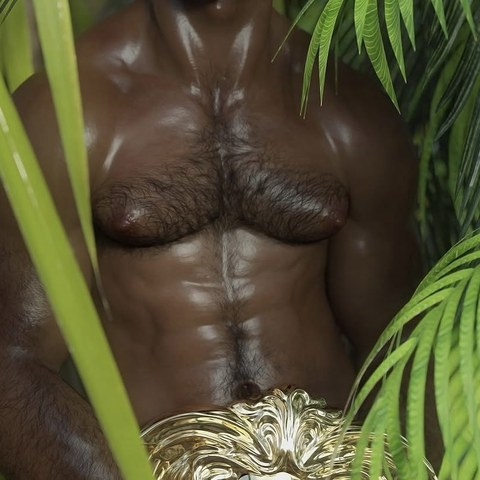
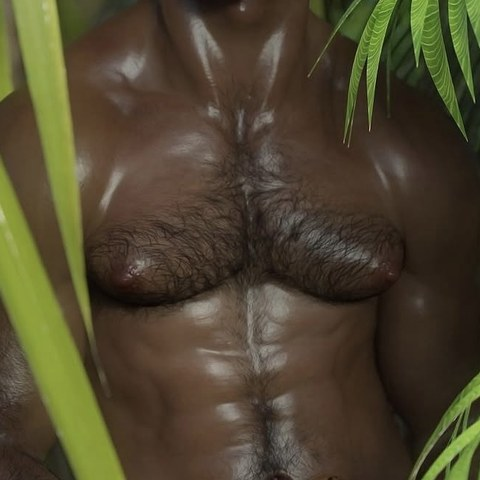
new creator

diff --git a/index.html b/index.html
@@ -200,7 +200,18 @@
   .cr-card .tx{flex:1;min-width:0;display:flex;flex-direction:column;gap:2px}
   .cr-card .h{font-size:16px;font-weight:800;color:var(--txt);overflow-wrap:anywhere;line-height:1.15}
   .cr-card .go{flex:none;height:34px;padding:0 13px;border-radius:17px;background:var(--acc);color:#000;font-weight:800;font-size:13px;display:flex;align-items:center;text-decoration:none;white-space:nowrap}
-  .cr-card .pend{font-size:8.5px;font-weight:800;letter-spacing:.8px;text-transform:uppercase;color:#ff9f0a}
+  .cr-card{flex-wrap:wrap}
+  .cr-card .av img.pic{opacity:1;z-index:1}
+  .cr-card .more{align-self:flex-start;margin-top:4px;padding:0;background:none;border:0;color:var(--mut);font:inherit;font-size:12px;font-weight:600;cursor:pointer}
+  .cr-card .more::after{content:' ▾';display:inline-block;transition:transform .2s}
+  .cr-card.open .more::after{transform:rotate(180deg)}
+  .cr-card .grid{display:none;flex-basis:100%;grid-template-columns:repeat(3,1fr);gap:6px}
+  .cr-card.open .grid{display:grid}
+  .cr-card .grid a{display:block;aspect-ratio:1;border-radius:8px;overflow:hidden;background:var(--card2)}
+  .cr-card .grid img{width:100%;height:100%;object-fit:cover;display:block}
+  .cr-card .pend{margin-top:4px;font-size:8.5px;font-weight:800;letter-spacing:.8px;text-transform:uppercase;color:#ff9f0a;animation:pendPulse 1.8s ease-in-out infinite}
+  @keyframes pendPulse{50%{opacity:.35}}
+  @media (prefers-reduced-motion:reduce){.cr-card .pend{animation:none}}
   #about .small{font-size:12px;color:var(--mut)}
   /* ---- password gate ---- */
   #gate{display:flex;flex-direction:column;align-items:center;gap:10px;width:100%;max-width:290px}
@@ -435,6 +446,7 @@ const CREATORS={
   'sasha.from.paris':{approved:false, credit:'oil paintings'},
   'agostovs':        {approved:false, credit:'3D character design'},
   'bruterdam':       {approved:false, credit:'3D renders'},
+  'lorenzosuited':   {approved:false, credit:'AI images'},
   'twinks.in.art':   {approved:false, credit:'curating John Burton Harter, Albert Edelfelt, George Thomas Georgiadis'},
 };
 /* Square crops go in assets/tiles/creators/ named  <handle>_<part>_<n>.jpg
@@ -512,6 +524,12 @@ const CREATOR_TILES=[
   'bruterdam_torso_2',
   'bruterdam_torso_3',
   'bruterdam_torso_4',
+  'lorenzosuited_feet_1',
+  'lorenzosuited_feet_2',
+  'lorenzosuited_feet_3',
+  'lorenzosuited_feet_4',
+  'lorenzosuited_legs_1',
+  'lorenzosuited_legs_2',
 ];
 
 /* ================= DECK: tile looks evolve the more you play =================
@@ -710,18 +728,25 @@ function openAbout(){ if(S&&S.running)pause(); aboutFrom=['pause','start','over'
 function closeAbout(){ rotateCredits(false); $('#about').hidden=true; if(aboutFrom)$('#'+aboutFrom).hidden=false; aboutFrom=null; }
 function renderCredits(){
   const tilesBy={}; DECK.forEach(d=>{ if(d.by)(tilesBy[d.by]=tilesBy[d.by]||[]).push(d.img) });
-  $('#credits').innerHTML=Object.entries(CREATORS).filter(([h,c])=>c.approved||SHOW_PENDING).map(([h,c])=>{
-    const imgs=(UNLOCKED&&tilesBy[h])||[];
+  /* approved first, otherwise keep CREATORS order */
+  const list=Object.entries(CREATORS).filter(([h,c])=>c.approved||SHOW_PENDING).sort((a,b)=>b[1].approved-a[1].approved);
+  $('#credits').innerHTML=list.map(([h,c])=>{
+    const imgs=(UNLOCKED&&tilesBy[h])||[], url=`https://instagram.com/${h}`;
+    /* profile pic: drop assets/avatars/<handle>.jpg in, otherwise the card cycles their tiles */
+    const pic=`<img class="pic" src="assets/avatars/${h}.jpg" alt="" onerror="this.remove()">`;
     const art=imgs.length? imgs.map((src,i)=>`<img ${i===0?`src="${src}" class="on"`:`data-src="${src}"`} alt="" loading="lazy">`).join('') : h.replace(/[^a-z]/gi,'')[0].toUpperCase();
-    return `<div class="cr-card"><div class="av">${art}</div><div class="tx"><span class="h">@${h}</span>${c.approved?'':'<span class="pend">permission pending</span>'}</div>
-      <a class="go" href="https://instagram.com/${h}" target="_blank" rel="noopener">See more ↗</a></div>`; }).join('');
+    const mine=tilesBy[h]||[]; /* approved artists said yes: their tiles show even before the password */
+    const grid=c.approved&&mine.length? mine.slice(0,6).map(src=>`<a href="${url}" target="_blank" rel="noopener"><img src="${src}" alt="" loading="lazy"></a>`).join('') : '';
+    return `<div class="cr-card"><div class="av">${pic}${art}</div><div class="tx"><span class="h">@${h}</span>${c.approved?'':'<span class="pend">permission pending</span>'}${grid?`<button class="more" type="button">Show artworks</button>`:''}</div>
+      <a class="go" href="${url}" target="_blank" rel="noopener">See more ↗</a>${grid?`<div class="grid">${grid}</div>`:''}</div>`; }).join('');
+  $('#credits').querySelectorAll('.more').forEach(b=>b.onclick=()=>b.closest('.cr-card').classList.toggle('open'));
 }
 /* each card cycles its own artwork: slow, each on its own clock, only while About is open */
 let credT=[];
 function rotateCredits(on){
   credT.forEach(clearTimeout); credT=[]; if(!on)return;
   document.querySelectorAll('#credits .av').forEach(art=>{
-    const imgs=[...art.querySelectorAll('img')]; if(imgs.length<2)return;
+    const imgs=[...art.querySelectorAll('img:not(.pic)')]; if(imgs.length<2||art.querySelector('.pic'))return;
     let k=0;
     const step=()=>{ const next=imgs[(k+1)%imgs.length]; if(next.dataset.src){next.src=next.dataset.src; delete next.dataset.src}
       imgs[k].classList.remove('on'); k=(k+1)%imgs.length; imgs[k].classList.add('on');
